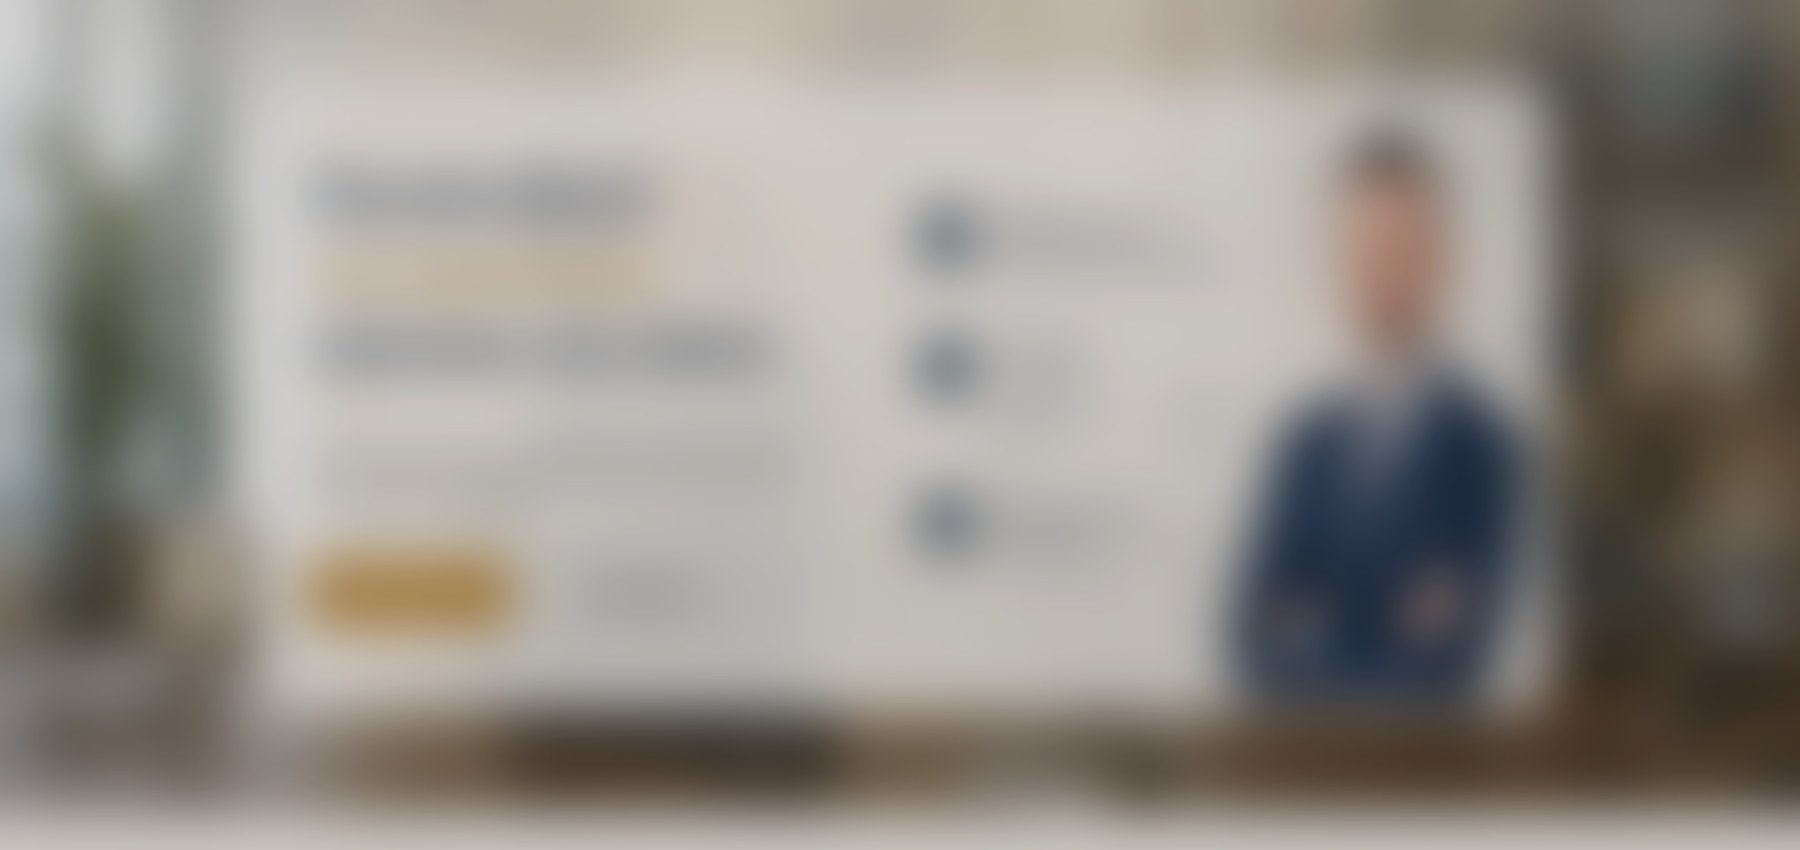
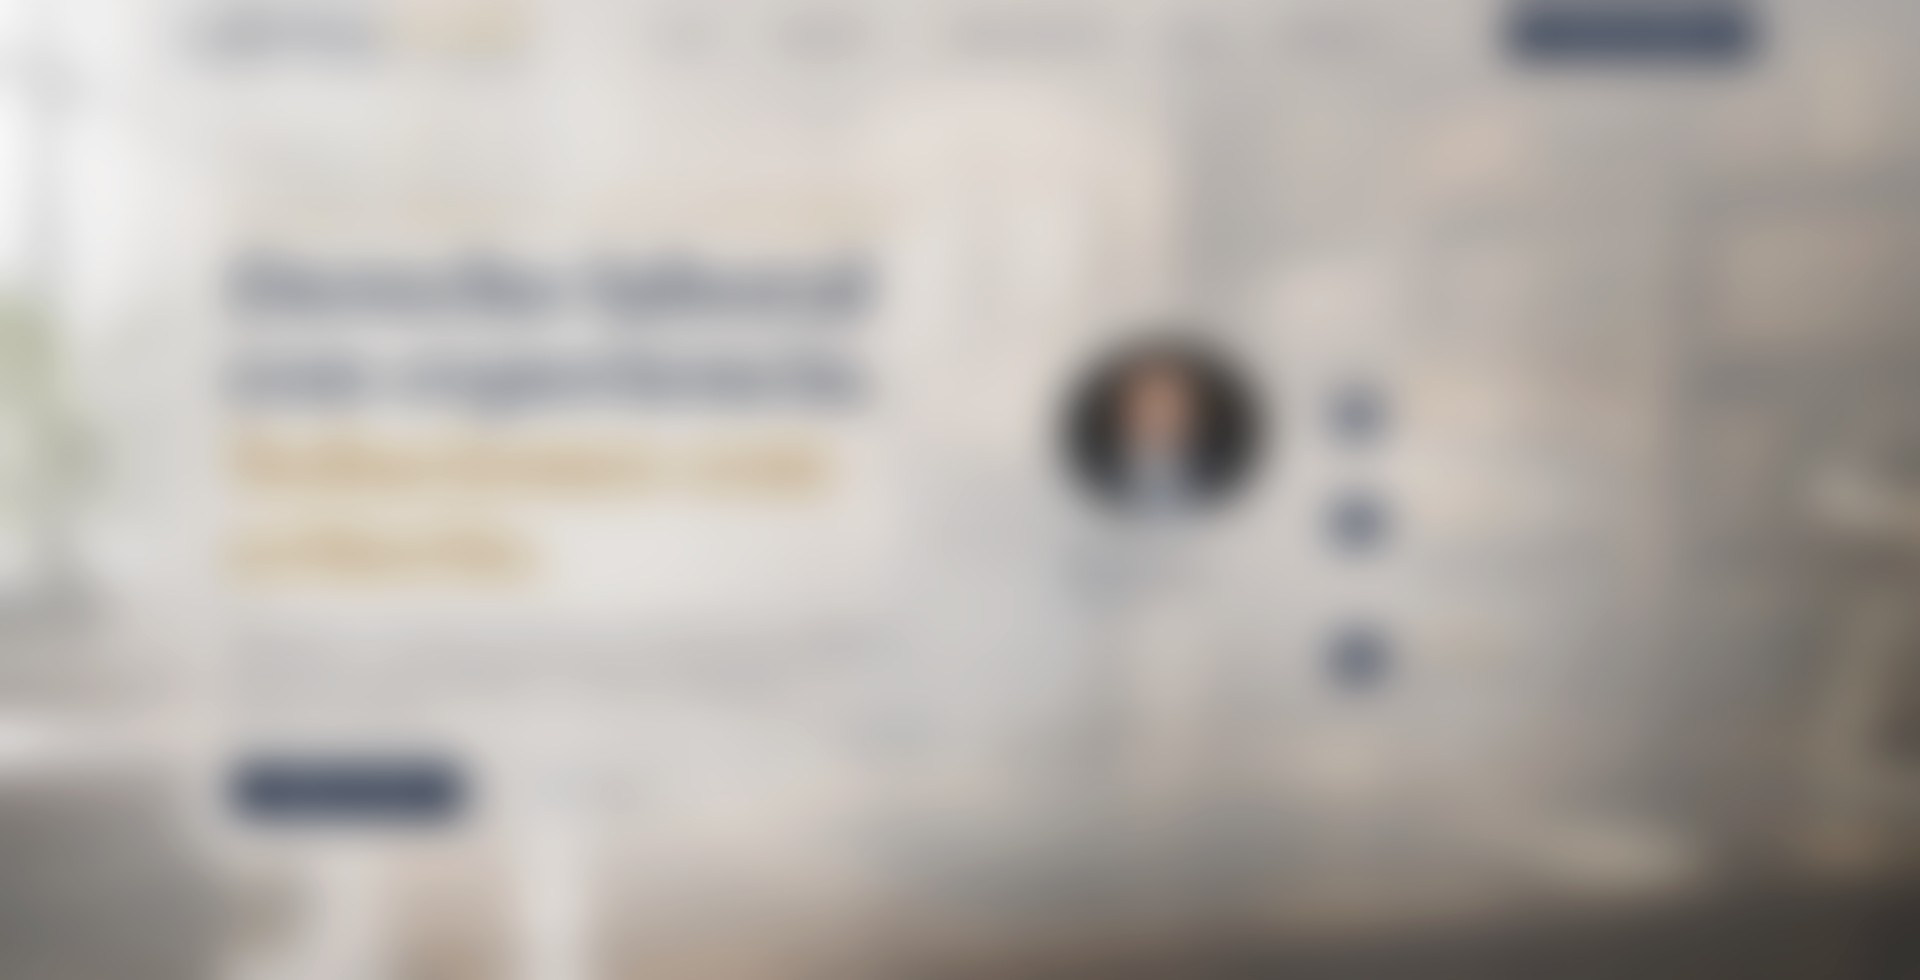
Add files via upload

diff --git a/styles.css b/styles.css
@@ -322,3 +322,119 @@ textarea{resize:vertical}
   .hero.hero-v6 .portrait-card{max-width:250px;margin:0 auto}
   .hero.hero-v6 .hero-contact-card>div{text-align:center}
 }
+
+
+/* ===== Versión 7: portada inspirada en la imagen elegida ===== */
+.hero.hero-v6{
+  min-height:760px;
+  padding:104px 0 88px;
+  background:
+    linear-gradient(90deg,rgba(255,252,246,.22) 0%,rgba(255,252,246,.08) 46%,rgba(255,252,246,.05) 100%),
+    url("office-background.jpg") center center / cover no-repeat;
+}
+.hero.hero-v6 .hero-grid{
+  grid-template-columns:1.15fr .85fr;
+  gap:54px;
+  align-items:center;
+}
+
+/* Texto sin gran bloque opaco: fondo muy transparente */
+.hero.hero-v6 .hero-copy{
+  background:rgba(255,252,246,.38);
+  border:1px solid rgba(255,255,255,.28);
+  box-shadow:none;
+  backdrop-filter:blur(2px);
+  -webkit-backdrop-filter:blur(2px);
+  padding:36px 34px;
+  border-radius:18px;
+}
+.hero.hero-v6 .hero-copy h1,
+.hero.hero-v6 .hero-copy .hero-lead,
+.hero.hero-v6 .hero-copy .trust-line{
+  text-shadow:0 1px 10px rgba(255,255,255,.68);
+}
+
+/* Zona derecha abierta: sin recuadro grande alrededor */
+.hero.hero-v6 .hero-side{
+  background:transparent;
+  border:0;
+  box-shadow:none;
+  backdrop-filter:none;
+  -webkit-backdrop-filter:none;
+  padding:0;
+  grid-template-columns:minmax(190px,.90fr) minmax(230px,1.10fr);
+  gap:26px;
+  align-items:center;
+}
+.hero.hero-v6 .portrait-frame{
+  background:rgba(255,255,255,.22);
+  border:0;
+  box-shadow:0 16px 35px rgba(20,38,49,.10);
+  border-radius:14px;
+  overflow:hidden;
+}
+.hero.hero-v6 .portrait-frame img{
+  background:transparent;
+  max-height:360px;
+}
+.hero.hero-v6 .portrait-caption{
+  margin-top:12px;
+}
+.hero.hero-v6 .portrait-caption strong{
+  font-size:16px;
+}
+.hero.hero-v6 .portrait-caption span{
+  font-size:12px;
+}
+
+/* Datos de contacto discretos y transparentes */
+.hero.hero-v6 .hero-contact-card{
+  background:rgba(255,252,246,.30);
+  border:0;
+  border-radius:16px;
+  box-shadow:none;
+  backdrop-filter:blur(2px);
+  -webkit-backdrop-filter:blur(2px);
+  padding:4px 16px;
+}
+.hero.hero-v6 .hero-contact-card>div{
+  padding:19px 2px;
+  border-bottom:1px solid rgba(12,36,56,.16);
+}
+.hero.hero-v6 .hero-contact-card strong{
+  color:var(--accent);
+}
+.hero.hero-v6 .hero-contact-card a,
+.hero.hero-v6 .hero-contact-card span{
+  color:var(--ink);
+  font-weight:600;
+  text-shadow:0 1px 8px rgba(255,255,255,.72);
+}
+
+@media(max-width:980px){
+  .hero.hero-v6 .hero-grid{grid-template-columns:1fr}
+  .hero.hero-v6 .hero-side{
+    grid-template-columns:220px 1fr;
+    max-width:660px;
+  }
+}
+@media(max-width:620px){
+  .hero.hero-v6{
+    padding:70px 0 62px;
+    background-position:center center;
+  }
+  .hero.hero-v6 .hero-copy{
+    background:rgba(255,252,246,.60);
+    padding:26px 20px;
+  }
+  .hero.hero-v6 .hero-side{
+    grid-template-columns:1fr;
+    gap:16px;
+  }
+  .hero.hero-v6 .portrait-card{
+    max-width:230px;
+  }
+  .hero.hero-v6 .hero-contact-card{
+    background:rgba(255,252,246,.54);
+  }
+}
